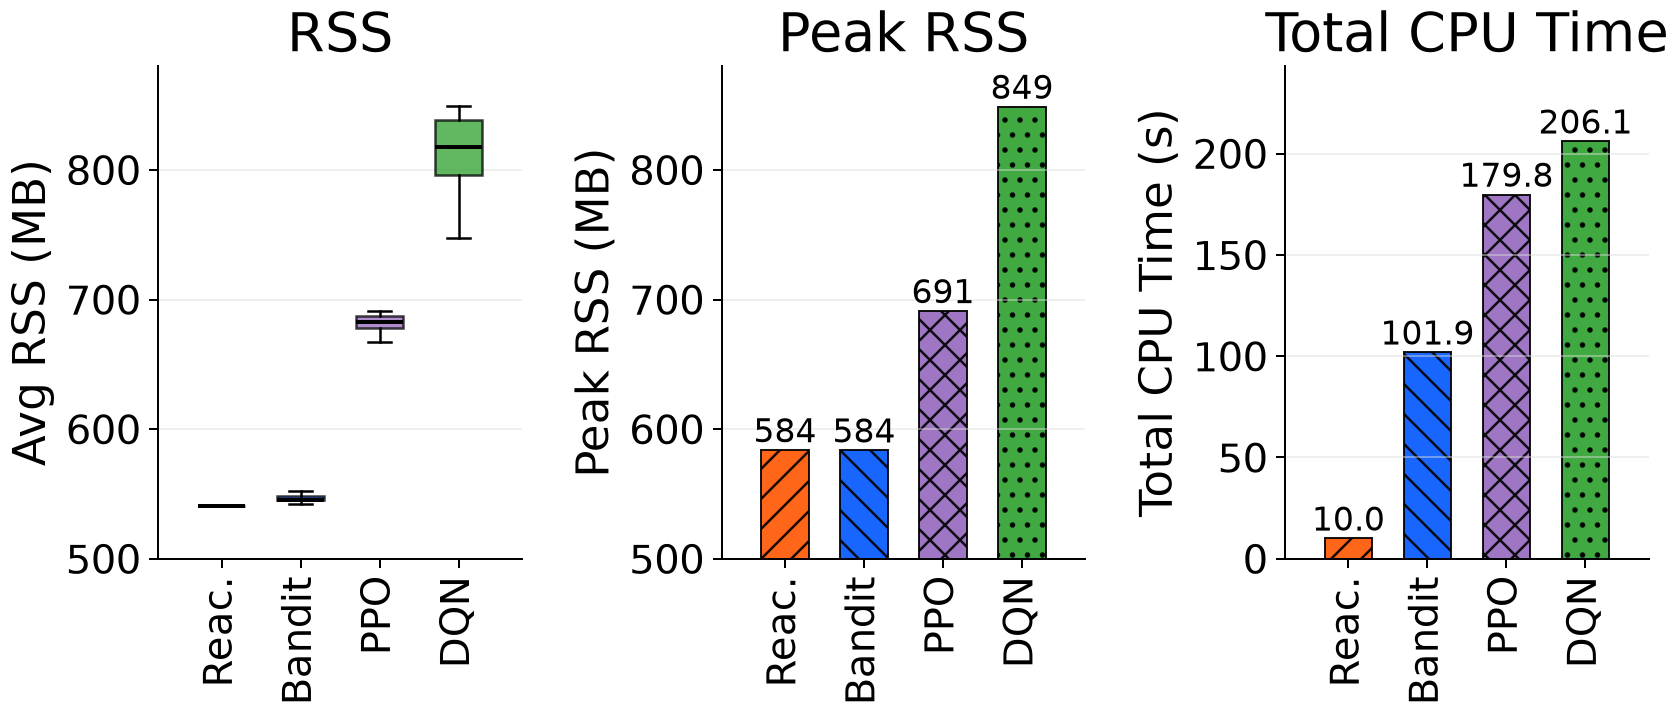
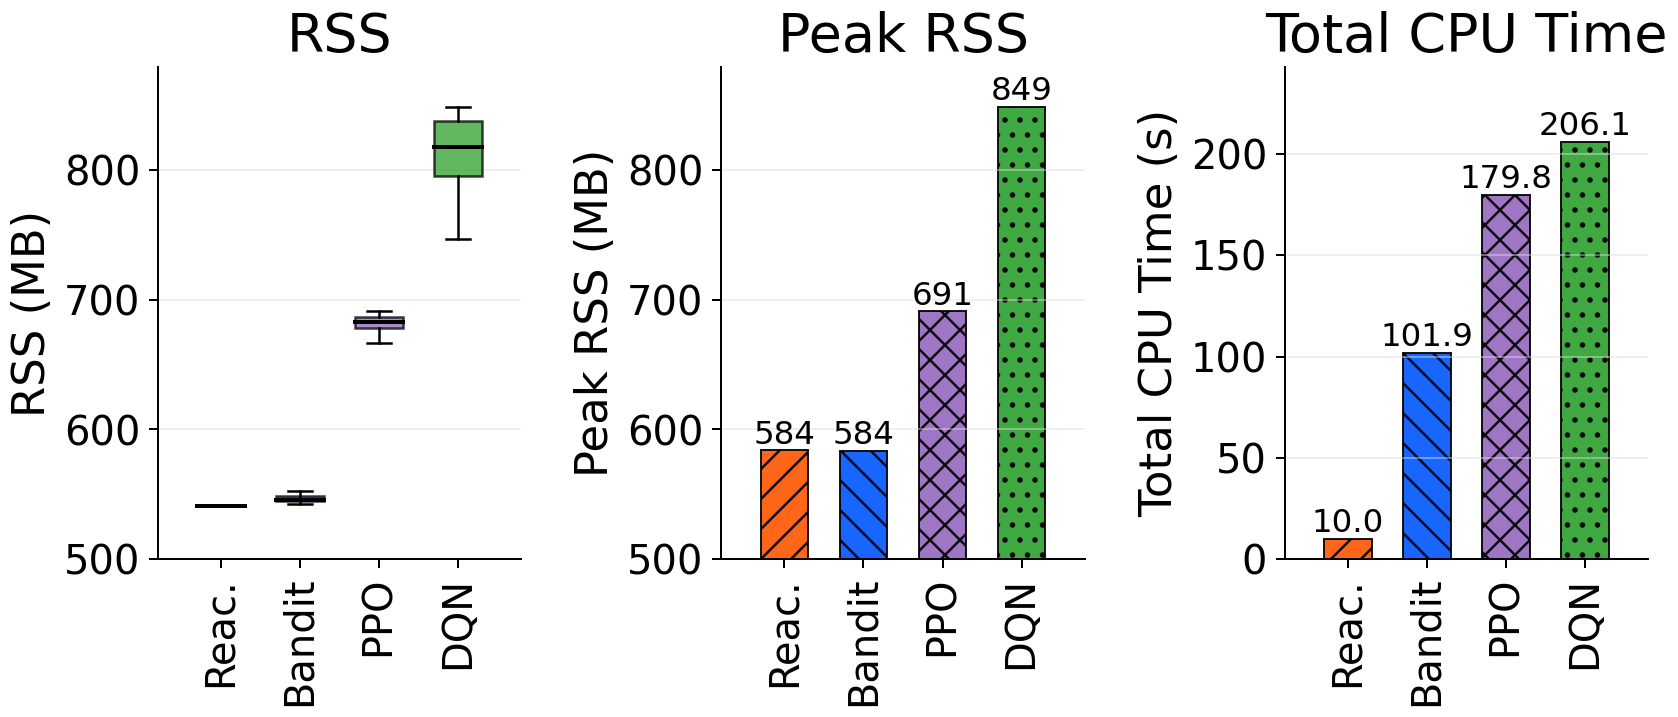
updated overhead figure

diff --git a/parameter_tuning/step5_overhead_analysis/memory_and_cpu/plot_resource_three_panel.py b/parameter_tuning/step5_overhead_analysis/memory_and_cpu/plot_resource_three_panel.py
@@ -132,7 +132,7 @@ def plot_three_panel() -> Path:
                     fmt.format(value), ha="center", va="bottom", fontsize=13)
 
     draw_box(ax_rss, rss_data, labels, colors,
-             "Avg RSS (MB)", "RSS", ylim=(500, 880))
+             "RSS (MB)", "RSS", ylim=(500, 880))
     draw_bar(ax_peak, peak_values, "Peak RSS (MB)", "Peak RSS", "{:.0f}", ylim=(500, 880))
     draw_bar(ax_cpu, cpu_seconds, "Total CPU Time (s)", "Total CPU Time", "{:.1f}")
 
